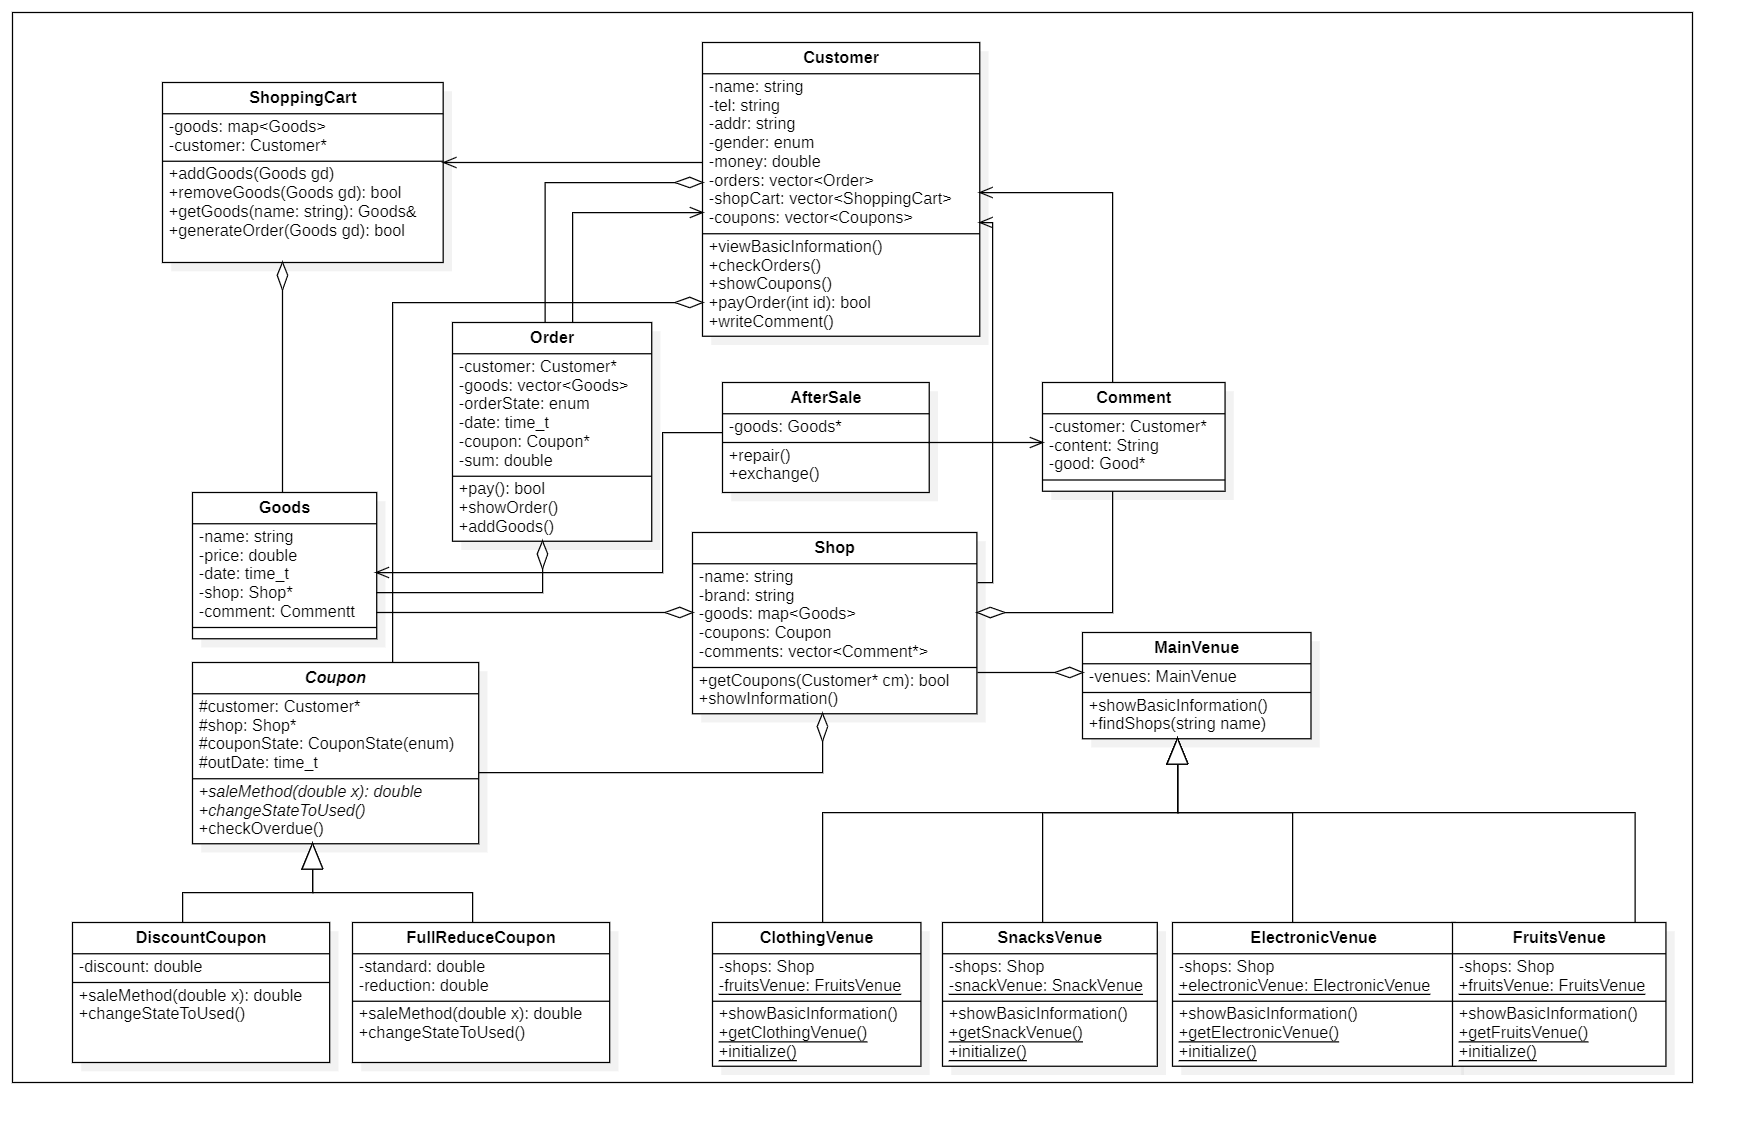
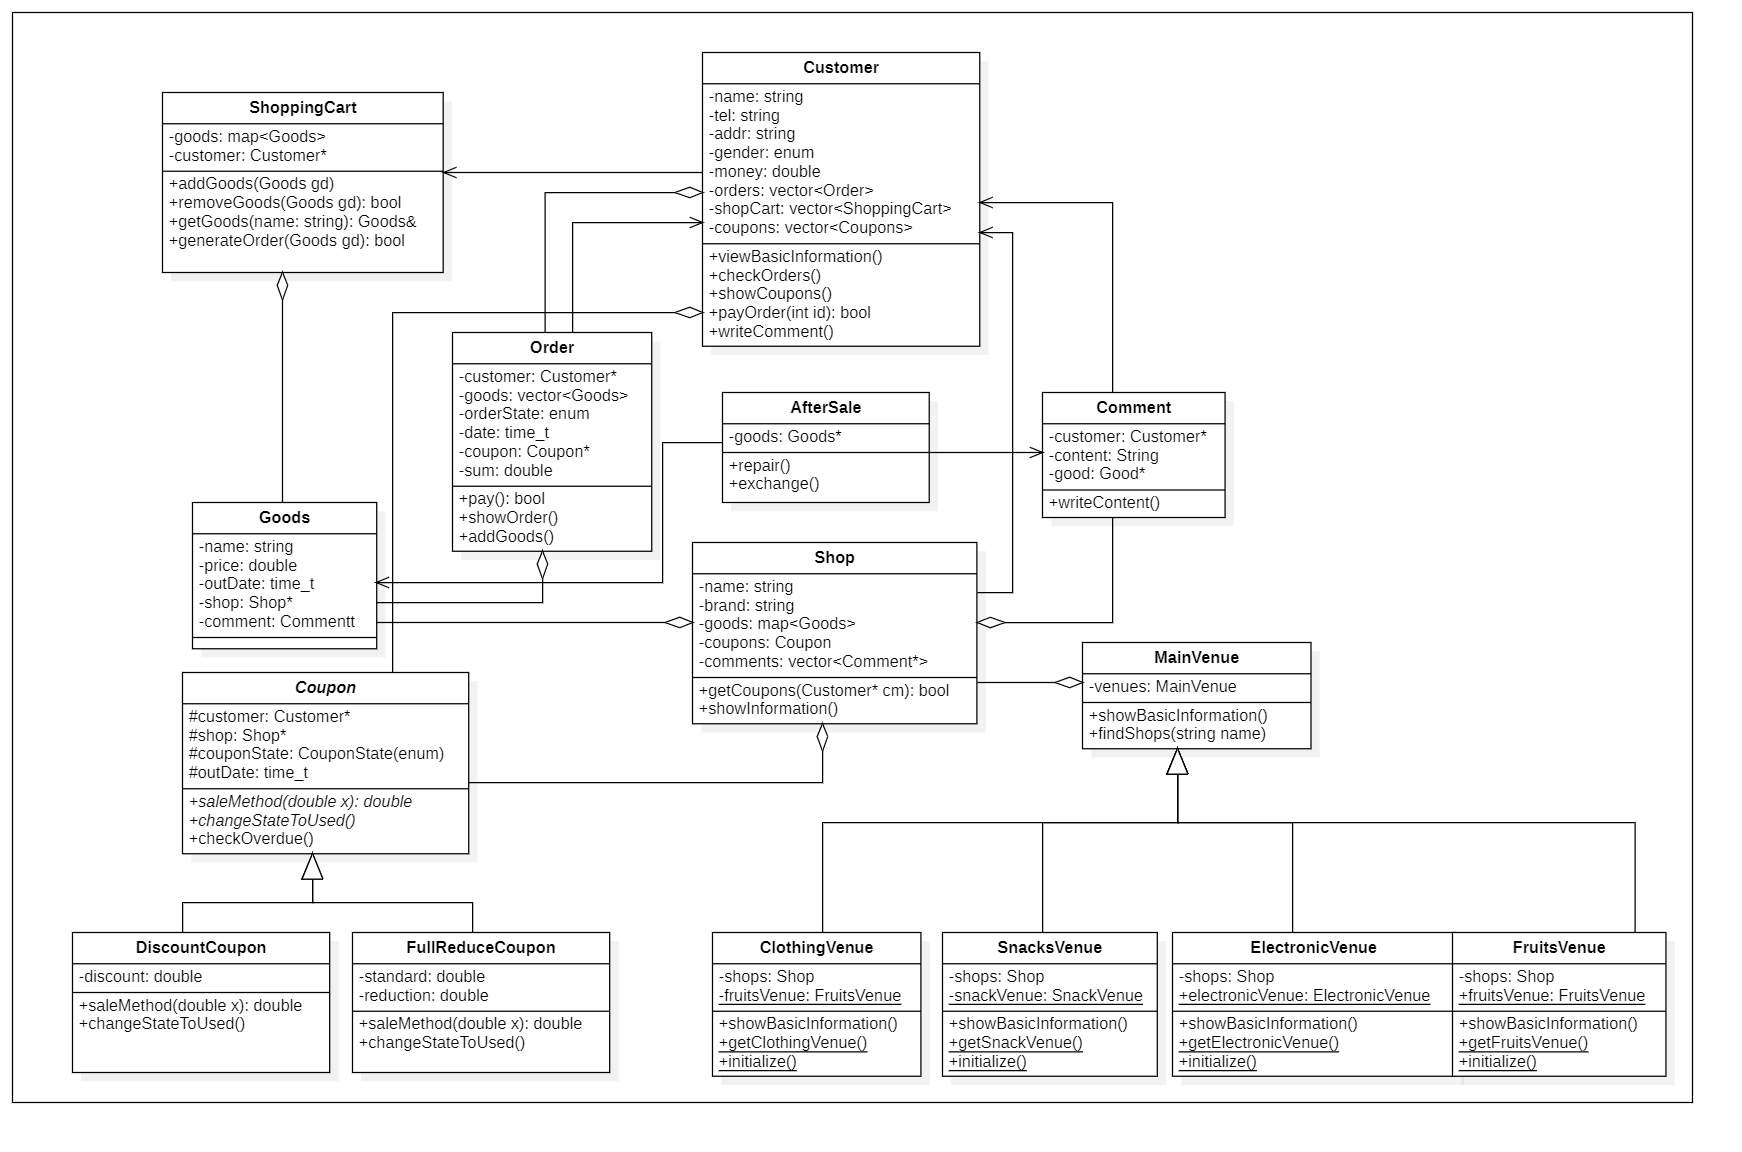
框架修改

Changed region(s): [[0.031, 0.0309, 0.961, 0.9585], [0.465, 0.7111, 0.93, 0.742], [0.558, 0.5256, 0.589, 0.5565]]

diff --git a/Codes/Shop/goods.h b/Codes/Shop/goods.h
@@ -1,16 +1,28 @@
 #pragma once
 #include<ctime>
 #include<string>
+#include"../PersonalInformation/Comment.h"
 using namespace std;
+
+#define month 2592000 //30天共有的秒数
+
+//预声明
+class Shop;
 
 class Goods{//商品
 public:
-
+    Goods(string na,double pr,Shop* sh):name(na),price(pr),outDate(time(0)+12*month),
+          shop(sh),comment(Comment(this,nullptr)){}
+    
     string getName()const{return name;}
 
     double getPrice()const{return price;}
 
-    //定义一种排序规则，为map服务
+    time_t getOutDate(){return outDate;}
+
+    Comment& getComment(){return comment;}
+
+    //定义一种大小规则，为map服务
     bool operator<(const Goods& gd)const{
         return name<gd.name;
     }
@@ -18,8 +30,8 @@ public:
 private:
     string name;
     double price;
-    time_t date;
+    time_t outDate;//过期时间,默认为创建商品后的一年时间
     Shop* shop;
-    vector<Comment> comment;
+    Comment comment;//每个商品对应着有一条评论
 
 };

diff --git a/Codes/Shop/shop.h b/Codes/Shop/shop.h
@@ -1,13 +1,32 @@
 #pragma once
 #include<map>
-#include"coupon.h"
+#include<vector>
+#include<string>
+#include"../Shop/coupon.h"
+#include"../Shop/goods.h"
+using namespace std;
+
+//预声明
+class Customer;
+class Comment;
+
 class Shop{
 public:
-    void showinformation();
+    Shop(string na,string bd):name(na),brand(bd){}
+
+    //输出关于店铺的一些信息
+    void showInformation();
+
+    //顾客通过此方法可获得优惠券
     bool getCoupons(Customer* cm);
+
+    vector<Comment*>& getComments(){return comments;}
+
 private:
     string name;
     string brand;
-    map<Goods,int> goods;
-    Coupon coupons;
+    map<Goods,int> goods;//map类型
+    vector<Coupon> coupons;
+    vector<Comment*> comments;//关于该店铺商品评论的集合
+
 };

diff --git a/Codes/PersonalInformation/Comment.h b/Codes/PersonalInformation/Comment.h
@@ -1,10 +1,24 @@
 #pragma once
-#include"customer.h"
+#include<string>
+using namespace std;
+
+//预声明
 class Goods;
+class Customer;
 
 class Comment{
+public:
+    Comment(Goods* gd,Customer* cm):goods(gd),customer(cm){}
+
+    //默认会覆盖之前的内容
+    void writeContent(string str){content=str;}
+
+    //获得评论内容
+    string getContent(){return content;}
+
 private:
     Goods* goods;
-    string content;
+    string content;//初始为空，需用成员函数写入
     Customer* customer;
+
 };

diff --git a/Codes/AfterSale/AfterSale.h b/Codes/AfterSale/AfterSale.h
@@ -1,13 +1,22 @@
 #pragma once
 #include<string>
-#include"../PersonalInformation/customer.h"
+using namespace std;
 
-class Order;//预声明
+class Goods;//预声明
+
 class AfterSale{
 public:
+    AfterSale(Goods* gd):goods(gd){}
+
+    //cout一些内容，暂无业务逻辑
     void repair();
+
+    //cout一些内容
     void exchange();
+
+    Goods* getRelatedGoods(){return goods;}
 
 private:
     Goods* goods;
+
 };

diff --git a/Codes/main.cpp b/Codes/main.cpp
@@ -1,5 +1,13 @@
 #include"Order/order.h"
-//#include"ShoppingCart/shoppingCart.cpp"
+#include"PersonalInformation/customer.h"
+#include"AfterSale/AfterSale.h"
+#include"Order/order.h"
+#include"PersonalInformation/Comment.h"
+#include"Shop/coupon.h"
+#include"Shop/goods.h"
+#include"Shop/shop.h"
+#include"ShoppingCart/shoppingCart.h"
+#include"Venue/venue.h"
 #include<iostream>
 #include<ctime>
 #include<map>

diff --git a/Codes/Shop/shop.cpp b/Codes/Shop/shop.cpp
@@ -1,10 +1,12 @@
 #include"shop.h"
-#include"customer.h"
-void showinformation()
-{
+#include"../PersonalInformation/customer.h"
+#include"../PersonalInformation/Comment.h"
+using namespace std;
+
+void showinformation(){
     
 }
-bool getCoupons(Customer* cm)
-{
+
+bool getCoupons(Customer* cm){
 
 }

diff --git a/Codes/PersonalInformation/customer.h b/Codes/PersonalInformation/customer.h
@@ -2,9 +2,9 @@
 #include<iostream>
 #include<string>
 #include<vector>
+#include"../ShoppingCart/shoppingCart.h"
 #include"../Order/order.h"
 #include"../Shop/coupon.h"
-#include"../ShoppingCart/shoppingCart.h"
 using namespace std;
 
 enum Gender {male,female};//性别的枚举变量

diff --git a/Codes/ShoppingCart/shoppingCart.cpp b/Codes/ShoppingCart/shoppingCart.cpp
@@ -1,6 +1,5 @@
-#include "../ShoppingCart/shoppingCart.h"
+#include "shoppingCart.h"
 #include "../PersonalInformation/customer.h"
-#include "../Shop/goods.h"
 #include"../Order/order.h"
 
 void ShoppingCart::addGoods(Goods gd){

diff --git a/Codes/Shop/coupon.cpp b/Codes/Shop/coupon.cpp
@@ -1,4 +1,6 @@
-#include "../Shop/coupon.h"
+#include "coupon.h"
+#include "../PersonalInformation/customer.h"
+#include "../Shop/shop.h"
 
 void Coupon::checkOverdue() {
     time_t now = time(0);

diff --git a/Codes/PersonalInformation/customer.cpp b/Codes/PersonalInformation/customer.cpp
@@ -1,4 +1,4 @@
-#include"../PersonalInformation/customer.h"
+#include"customer.h"
 
 void Customer::viewBasicInformation(){
     cout<<"以下是您的基本信息：\n";

diff --git a/Codes/Venue/venue.h b/Codes/Venue/venue.h
@@ -38,7 +38,6 @@ private:
 
     static ClothingVenue clothingVenue;//静态变量定义唯一对象
 
-
     vector<Shop> shops;//分会场中应该有一些商家
 };
 

diff --git a/Codes/ShoppingCart/shoppingCart.h b/Codes/ShoppingCart/shoppingCart.h
@@ -1,8 +1,10 @@
 #pragma once
 #include<map>
-
+#include<string>
+#include"../Shop/goods.h"
 using namespace std;
 
+//预声明
 class Customer;
 
 class ShoppingCart{
